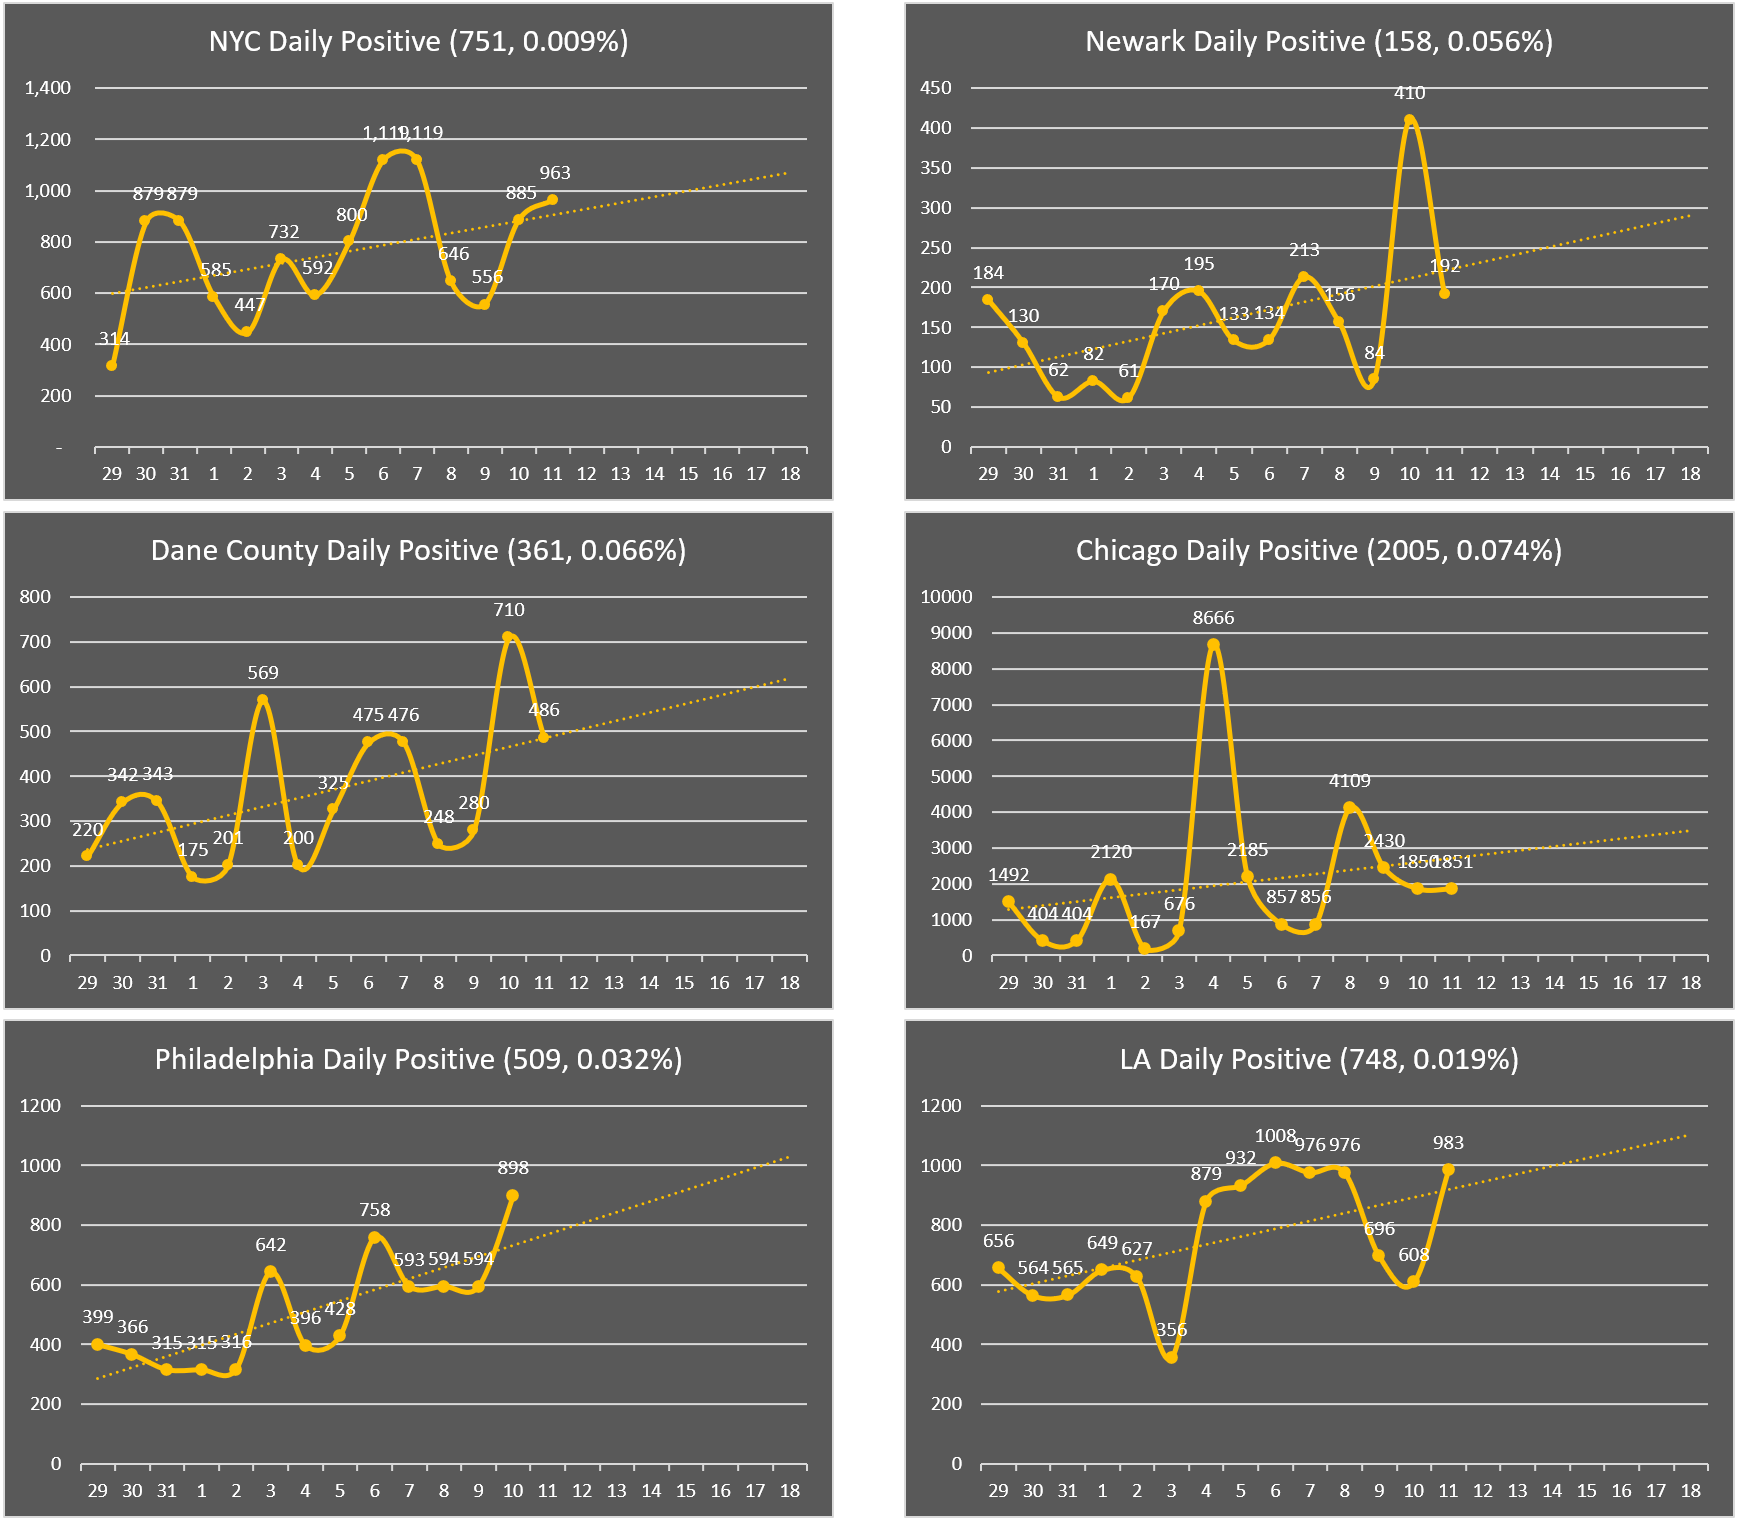
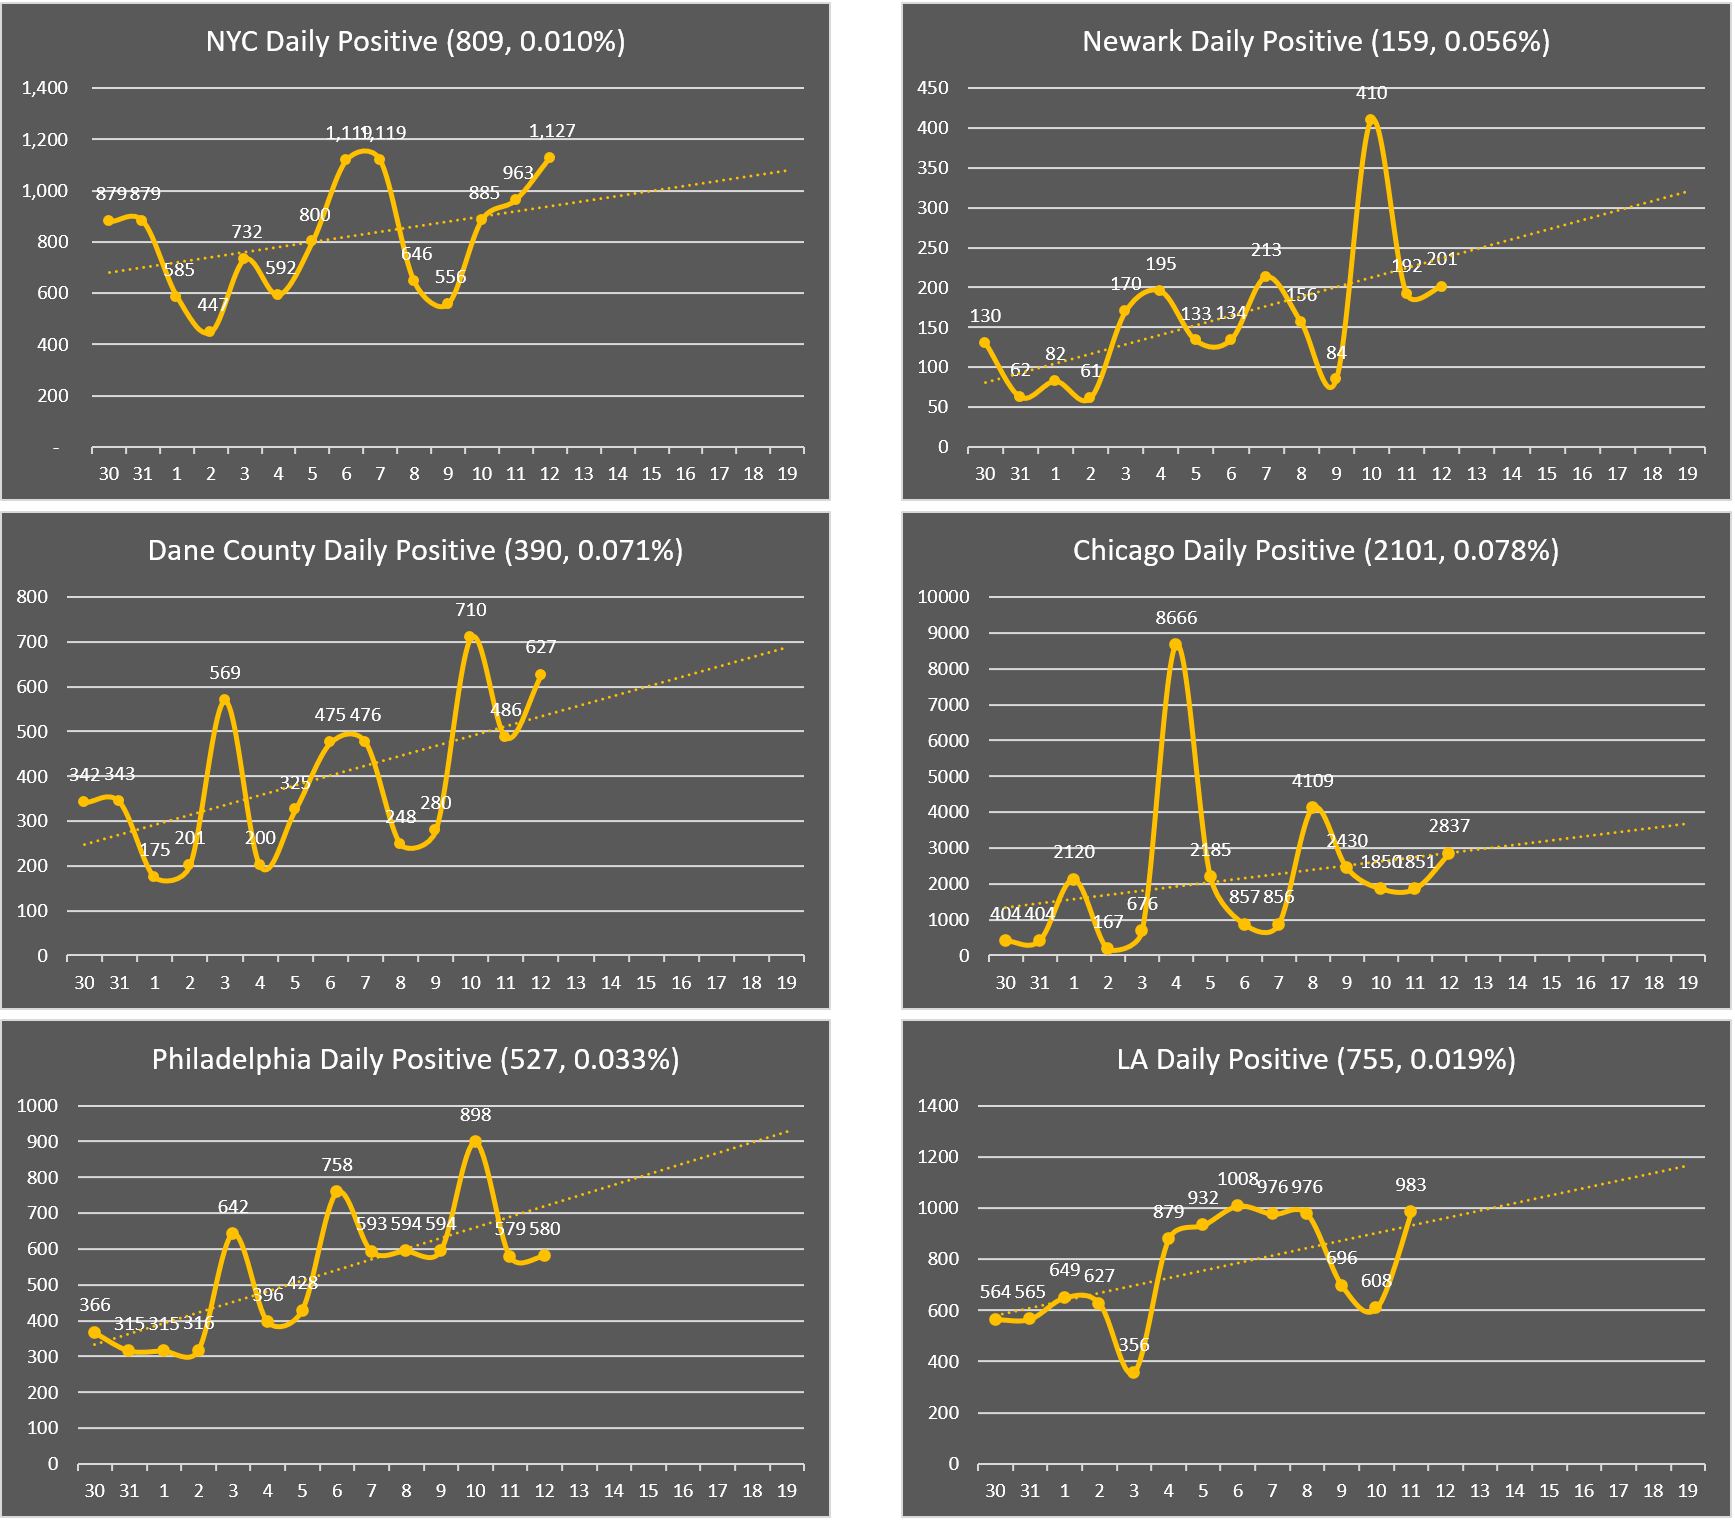
update 11/12 status

diff --git a/index.html b/index.html
@@ -19,7 +19,7 @@
 
 <body class="container-fluid">
 	<h1> CoronaV for Friends</h1>
-	<h2> Data updated at Nov 11 2020 EST 23:00</h2>
+	<h2> Data updated at Nov 12 2020 EST 18:35</h2>
 	<hr>
 	<main>
 		<div class="row">
